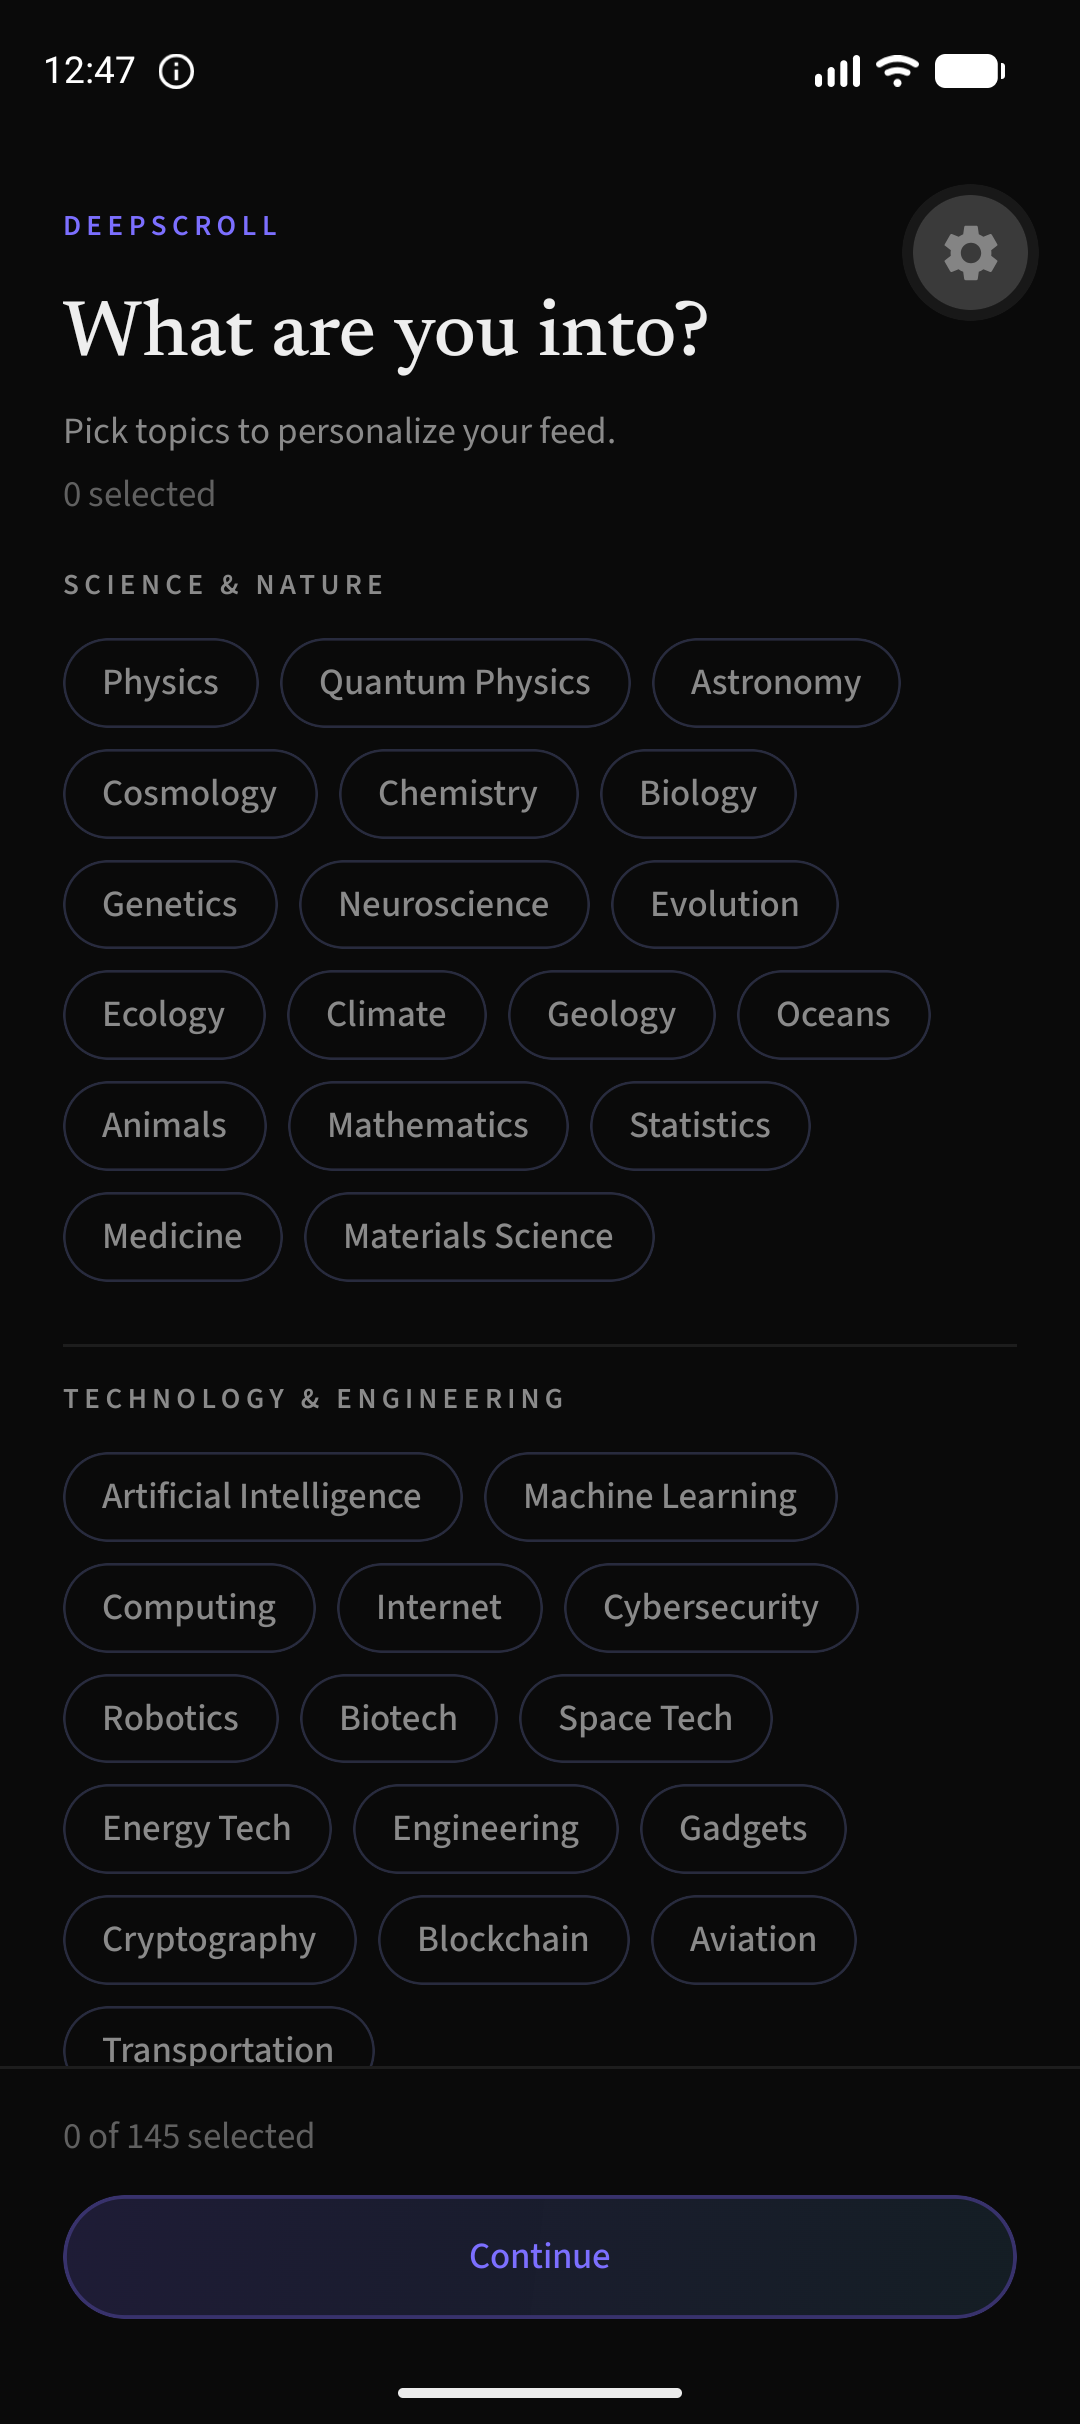
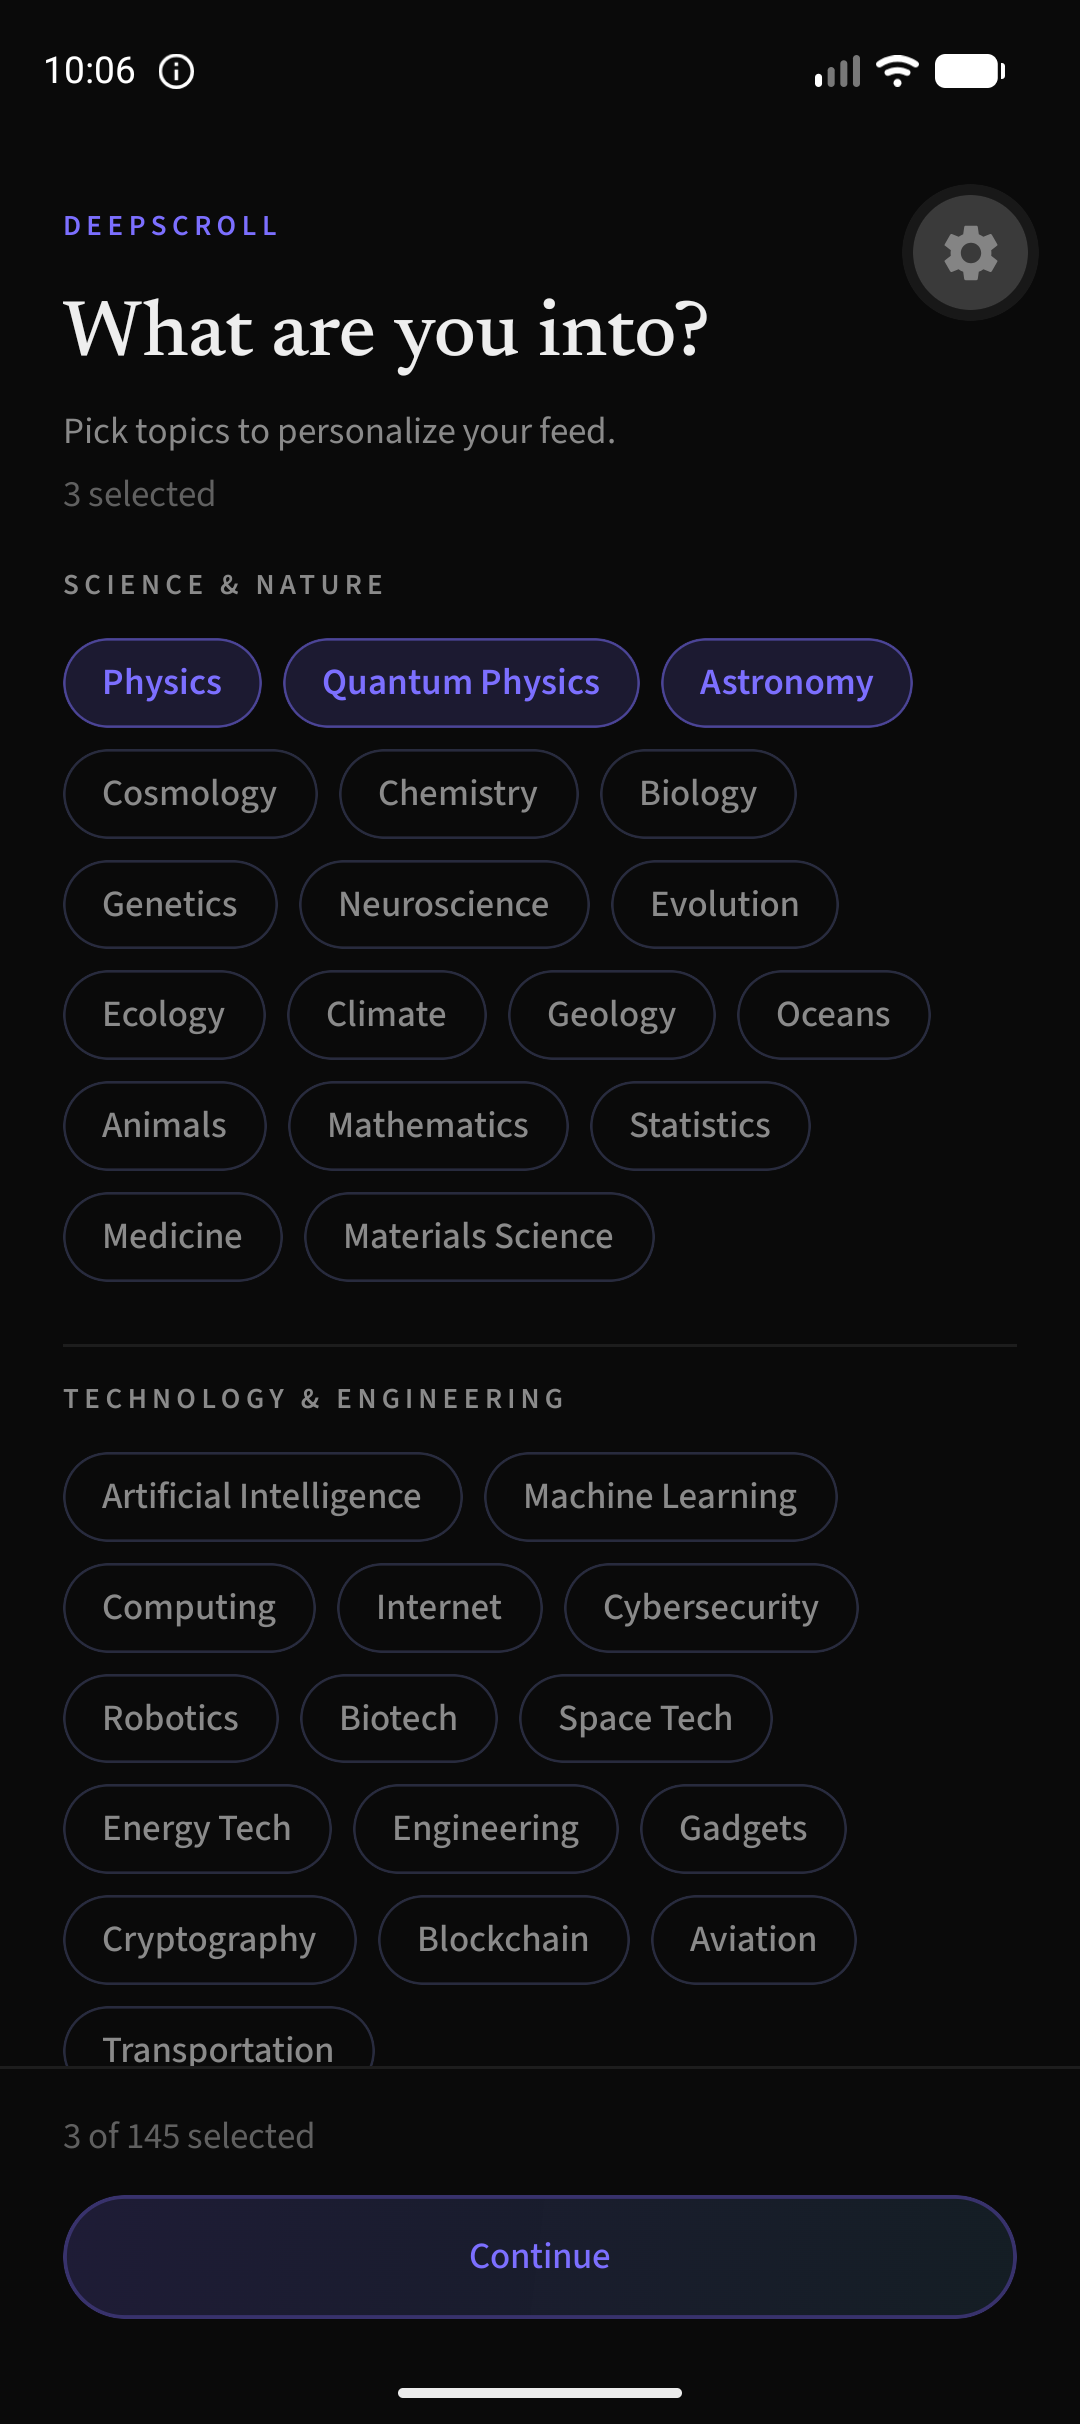
Security with auth

Changed region(s): [[0.0611, 0.2475, 0.8556, 0.3094], [0.7639, 0.0, 0.7944, 0.0309], [0.0917, 0.0, 0.1222, 0.0309]]

diff --git a/ARCHITECTURE.md b/ARCHITECTURE.md
@@ -131,21 +131,34 @@ frontend/
       CastSection.tsx           stories: array of character cards (name/role/one_line/lifespan)
       HistoricalContextSection.tsx stories: broader historical setting
 
-mobile/                         React Native app (Expo SDK 56, TypeScript, expo-router, NativeWind 4 + tailwindcss 3.4); phase 1 = For You feed only
-  package.json                  main: expo-router/entry; deps incl. reanimated 4, gesture-handler, react-native-svg, expo-image, async-storage, @expo-google-fonts/{newsreader,source-sans-3,geist-mono}
+mobile/                         React Native app (Expo SDK 56, TypeScript, expo-router, NativeWind 4 + tailwindcss 3.4); phase 2 = auth + onboarding + 9-tab feed navigation
+  package.json                  main: expo-router/entry; deps incl. reanimated 4, gesture-handler, react-native-svg, expo-image, async-storage, expo-secure-store, react-native-pager-view, @expo-google-fonts/{newsreader,source-sans-3,geist-mono}
   babel.config.js               babel-preset-expo (jsxImportSource nativewind) + nativewind/babel
   metro.config.js               expo/metro-config wrapped in withNativeWind (input global.css)
   tailwind.config.js            NativeWind preset; colors/radii/fontFamily generated from src/theme/tokens.ts so web class vocabulary (bg-surface-1, text-ink-dim, rounded-card) works
   src/config.ts                 BASE_URL/WS_URL from EXPO_PUBLIC_API_URL; dev default http://10.0.2.2:8000 (emulator-to-host); comments document emulator / device-on-WLAN / HTTPS cases
   src/theme/tokens.ts           Circuit tokens (surfaces, edges, ink, lamp/like/save/good/bad, fmt-*) + radii px + expo-font family names; mirrors frontend globals.css @theme
-  src/lib/api.ts                apiFetch port; module-level cachedToken filled from AsyncStorage by initAuthToken() at startup so apiFetch reads it synchronously; setAuthToken keeps cache+storage in sync; skips Content-Type for FormData
+  src/lib/api.ts                apiFetch port; module-level cachedToken filled from expo-secure-store (Keystore/Keychain) by initAuthToken() at startup so apiFetch reads it synchronously; setAuthToken keeps cache+storage in sync; getAuthToken() sync read for AuthProvider; skips Content-Type for FormData
+  src/lib/auth.tsx              AuthContext port of frontend lib/auth.tsx: JWT via setAuthToken (SecureStore), session restore via /api/auth/me on mount, user/loading/login/register/logout/updateUser, detailToMessage error normalization
+  src/lib/interests.ts          getInterestSlugs/setInterestSlugs; AsyncStorage key "deepscroll_interests" (same meaning as web localStorage); null = onboarding not done
+  src/lib/likedPosts.ts         async AsyncStorage port of web likedPosts.ts (keys deepscroll_liked/like_counts/like_sent, migrateSentKey dropped); not yet wired to UI (no action rail this phase)
+  src/lib/savedPosts.ts         async AsyncStorage port of web savedPosts.ts (key deepscroll_saved); not yet wired to UI
+  src/lib/feedTabs.ts           TABS: For You + Following + 7 format tabs (FeedTabDef {id,label,format,accent,rgb}), ported from web page.tsx
   src/lib/formats.ts            FORMAT_IDS/FORMAT_STYLES/formatStyle/LEGACY_SVG_ACCENT_MAP port (web Tailwind class strings dropped, accent hex kept)
   src/lib/relativeTime.ts       relativeTime(iso) port, unchanged
   src/types/post.ts             Post/Section/SectionType/feed-card types + fcStr/fcNum, identical to frontend/src/types/post.ts
-  src/app/_layout.tsx           root layout: loads Newsreader/Source Sans 3/Geist Mono via useFonts, awaits initAuthToken, holds splash until ready, dark Stack on surface-0, GestureHandlerRootView
-  src/app/index.tsx             For You feed: GET /api/feed -> FlatList of full-screen PostCards; pagingEnabled + decelerationRate fast + getItemLayout (item height = measured container height) + windowSize 5 / maxToRenderPerBatch 2 / removeClippedSubviews; loading spinner + retry error state
+  src/app/_layout.tsx           root layout: loads Newsreader/Source Sans 3/Geist Mono via useFonts, awaits initAuthToken, holds splash until ready, wraps Stack in AuthProvider, dark Stack on surface-0, GestureHandlerRootView
+  src/app/index.tsx             home: 9-tab feed container; interests gate (AsyncStorage -> redirect /onboarding), FeedTabBar + PagerView (9 FeedTab pages, collapsable=false, lazy activation set) + BottomNav + Toast; measured pager height drives card height
+  src/app/login.tsx             port of web login page: centered card, email+password fields, inline error in bad color, PrimaryButton, link to /register; redirects to / when logged in
+  src/app/register.tsx          port of web register page: email+username+password, otherwise same pattern as login.tsx
+  src/app/onboarding.tsx        InterestPicker port: CATEGORIES map copied verbatim, GET /api/interests, pill grid in 10 sections + Other, min 1 selection, saves slugs via setInterestSlugs, router.replace("/")
   src/components/PostCard.tsx   memoized full-screen card; per-format layouts (books/people/facts/concepts/questions/stories/academy + fallback) mirroring web PostCard core elements; expo-linear-gradient card surface, accent left border, badge glow via textShadow/boxShadow, interest tags, author initial; no actions/navigation this phase
   src/components/SafeSvg.tsx    SvgBlock counterpart: seed -> inline SvgXml with legacy-hex re-palette; user content -> expo-image with svg+xml data URI (no script execution)
+  src/components/PrimaryButton.tsx  web .btn-primary recipe (lamp gradient pill) as Pressable+LinearGradient; label/onPress/disabled
+  src/components/FeedTab.tsx    one pager page: lazy fetch on first activation (GET /api/feed?interests&format; Following -> /api/feed/following with login/empty states); posts reset on user change; vertical paging FlatList from phase 1
+  src/components/FeedTabBar.tsx tab strip + sliding 16x4 indicator; reanimated progress from PagerView onPageScroll, translateX over measured tab centers + interpolateColor over tab accents; auto-centers active tab (clamped); inert search icon
+  src/components/BottomNav.tsx  web BottomNav port (5 svg icons verbatim); Feed active with lamp glow; Chat/Stats/Create -> "Coming soon" toast; Profile -> /login or toast when logged in; safe-area bottom padding
+  src/components/Toast.tsx      useToast hook + pill component above BottomNav; 1800ms auto-hide, reanimated FadeIn/FadeOut
 
 docs/REVIEW.md                  full-pass audit (June 2026): categorized findings + design direction and token set
 docs/DESIGN.md                  "Lamplight" design identity (June 2026 redesign): rationale, full token set, format ink palette, type system, component vocabulary
@@ -450,6 +463,7 @@ attributes. Never use `dangerouslySetInnerHTML` to render comment text.
 - "Lamplight" visual redesign (June 2026, see docs/DESIGN.md): warm dark token system in globals.css drives every screen; Newsreader serif + Source Sans 3 + Geist Mono type system; muted book-spine format inks; per-post --accent CSS variable replaces hardcoded section colors; seed SVGs re-paletted at render time in SvgBlock (content JSON untouched); shared component vocabulary (.card/.btn/.field/.chip/.label-caps)
 
 - Mobile app phase 1 (mobile/): Expo/React Native For You feed with TikTok-style vertical paging, Circuit tokens + web fonts, all 7 format card layouts
+- Mobile app phase 2 (mobile/): JWT auth (SecureStore) with login/register screens + session restore, onboarding interest picker (AsyncStorage gate), 9-tab feed via PagerView with animated tab indicator, BottomNav + toast for unbuilt destinations
 
 **Next**
 - Content for academy format